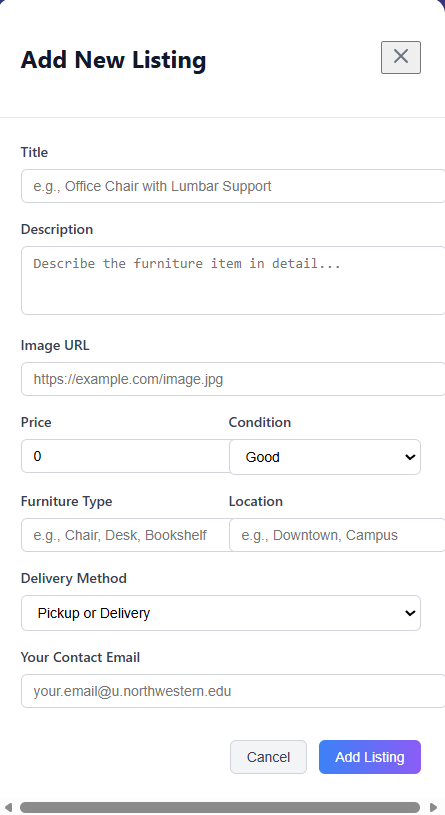
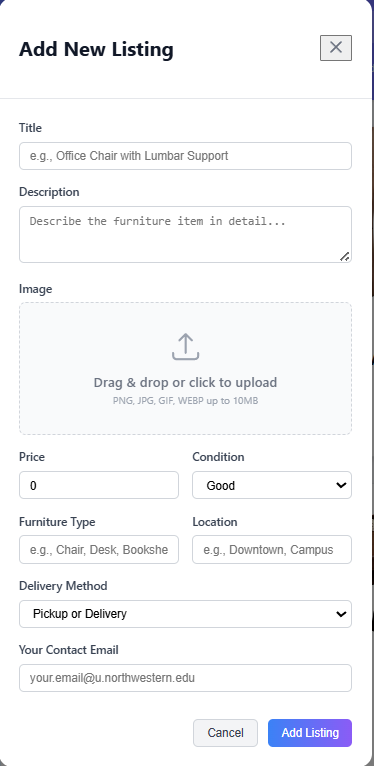
Rewrite README

diff --git a/README.md b/README.md
@@ -1,158 +1,96 @@
-# Vite + React + TypeScript Template Updated for 2026
+# DormDeals
 
-This starter combines React, TypeScript, Vite, Vitest, ESLint, and Prettier in a setup intended for Northwestern CS394 projects and similar coursework. The template now targets the 2026 major-version baseline verified in this repository on March 24, 2026.
+DormDeals is a student marketplace web app for buying and selling furniture. The current implementation focuses on the Marketplace experience, where users can browse listings, search for furniture, filter and sort results, inspect listing details, reveal seller contact, and create new posts.
 
-![394-2026-Screenshot](./resources/2026-screenshot.png)
+## Current Marketplace Features
 
-## Toolchain Baseline
+- Browse all posted furniture listings in a card grid layout.
+- Search listings by keyword (title, description, location, and furniture type).
+- Filter listings by:
+  - Furniture type
+  - Maximum price
+  - Condition
+- Sort listings by:
+  - Posting time: newest first or oldest first
+  - Price: low to high or high to low
+- Click a listing card to open a detail modal.
+- In listing details, click Message Seller to reveal hidden seller contact.
+- Click the floating + button in the bottom-right corner to open the Add Listing form.
+- Create a listing with title, description, image upload, type, condition, location, delivery method, price, and seller contact.
 
-- Node.js `22+` recommended
-- npm `10+`
-- React `19.2.x`
-- TypeScript `5.9.x`
-- ESLint `9.39.x`
-- Vite `8.0.x`
-- Vitest `4.1.x`
+## Screenshots
 
-You can find more about these in the following links: [Vite](https://vitejs.dev), [React](https://reactjs.org/), [Typescript](https://www.typescriptlang.org/), [Eslint](https://eslint.org/), [Prettier](https://prettier.io/), [Vitest](https://vitest.dev/), [React Testing Library](https://testing-library.com/docs/react-testing-library/intro/)
+### Marketplace Page
 
-## What's New in 2025/2026
+![Marketplace page](./resources/Market_place_page.png)
 
-- **React 19** with the latest React DOM and TypeScript types
-- **Vite 8** for faster builds and dev server
-- **Vitest 4** with visual UI mode and V8 coverage reporting
-- **React Testing Library** with `@testing-library/jest-dom` for readable assertions and `@testing-library/user-event` for realistic user interaction simulation
-- **TypeScript 5.9** with strict mode enabled
-- **ESLint 9** using the new flat config format
-- All dependencies updated to their latest stable versions
-- **starter Copilot instructions** in `copilot-instructions.md` for code style and project structure guidelines
+### Search Bar
 
-## Installation
+![Search bar](./resources/Search_bar.png)
 
-Clone the repo and install dependencies:
+### Filtering by Furniture Type
+
+![Filtering by furniture type](./resources/Filtering_furniture_type.png)
+
+### Posting Flow
+
+![Posting a listing](./resources/Posting.png)
+
+## Tech Stack
+
+- React + TypeScript
+- Vite
+- Firebase Realtime Database
+- Vitest + React Testing Library
+
+## Getting Started
+
+### Prerequisites
+
+- Node.js 22+
+- npm 10+
+
+### Install
 
 ```bash
 npm install
 ```
 
-If you use `nvm`, run:
+### Run the App
 
 ```bash
-nvm use
+npm run dev
 ```
 
-To create a fresh copy from GitHub:
+Then open the local URL shown in the terminal (usually `http://localhost:5173`).
 
-```bash
-npx degit toddwseattle/pretty-vitest-react-ts-template project-name
-```
+## Available Scripts
 
-## Scripts
+- `npm run dev`: start Vite development server
+- `npm run build`: run type checks and create production build
+- `npm run type-check`: run TypeScript compiler without emitting output
+- `npm run lint`: run formatting and lint checks
+- `npm test`: run Vitest tests
+- `npm run test:ui`: open Vitest UI
+- `npm run test:coverage`: run tests with coverage
 
-- `npm run dev` starts the Vite dev server.
-- `npm run build` runs TypeScript and creates a production build.
-- `npm run type-check` runs the TypeScript compiler without emitting files.
-- `npm run lint` runs Prettier and ESLint across the repo.
-- `npm test` runs Vitest without the browser UI.
-- `npm test -- --run` runs the Vitest suite once without watch mode.
-- `npm run test:ui` starts the Vitest UI.
-  - The UI server is pinned to `127.0.0.1:51204`.
+## Data and Backend Notes
 
-Install packages: `npm install`
+- Listings are loaded from Firebase Realtime Database.
+- New listings are created and stored in Firebase under `listings`.
+- If loading from Firebase fails, the app falls back to local mock listings so the marketplace UI still works during development.
 
-Start the dev server: `npm run dev`
+## Project Status
 
-## Testing
+Implemented:
 
-This template uses [Vitest](https://vitest.dev/) with [React Testing Library](https://testing-library.com/docs/react-testing-library/intro/) for testing React components.
+- Marketplace browsing page
+- Search, filtering, and sorting controls
+- Listing details modal with reveal-on-click seller contact
+- Add listing flow from the floating + button
 
-**Note**: npm audit currently reports GHSA-rf6f-7fwh-wjgh via flatted; awaiting upstream fix in @vitest/ui / flat-cache. This is a dev only dependency do notinclud npm audit of dev dependencies in your ci workflow until this is resolved.
+Planned next steps (based on app vision):
 
-### Running Tests
-
-```bash
-# Run tests in watch mode
-npm test
-
-# Run tests with the visual UI
-npm run test:ui
-
-# Run tests with coverage report
-npm run test:coverage
-```
-
-### Writing Tests with React Testing Library
-
-Tests live alongside your source files (e.g., `src/app.test.tsx` tests `src/App.tsx`). Here's a quick guide:
-
-**Rendering a component:**
-
-```tsx
-import { render, screen } from '@testing-library/react';
-import App from './App';
-
-test('renders a heading', () => {
-  render(<App />);
-  expect(screen.getByText('Hello World')).toBeInTheDocument();
-});
-```
-
-**Simulating user interactions with `userEvent`:**
-
-```tsx
-import { render, screen } from '@testing-library/react';
-import userEvent from '@testing-library/user-event';
-
-test('button click increments counter', async () => {
-  const user = userEvent.setup();
-  render(<Counter />);
-  await user.click(screen.getByRole('button'));
-  expect(screen.getByText('count is: 1')).toBeInTheDocument();
-});
-```
-
-**Common queries (in order of priority):**
-
-1. `getByRole` - query by ARIA role (preferred for accessibility)
-2. `getByLabelText` - query by form label
-3. `getByPlaceholderText` - query by input placeholder
-4. `getByText` - query by visible text content
-5. `getByAltText` - query by image alt text
-
-### Testing Best Practices
-
-- **Query by role first.** Use `getByRole` when possible. It encourages accessible markup and tests your component the way users interact with it.
-- **Use `userEvent` over `fireEvent`.** `userEvent` simulates real browser behavior (focus, hover, keyboard events) while `fireEvent` dispatches a single DOM event. This catches more bugs.
-- **Avoid testing implementation details.** Don't test state variables or internal methods. Test what the user sees and does.
-- **Write descriptive test names.** A test name should explain what the component does, not how it does it. E.g., "shows error message when form is submitted empty" rather than "sets error state to true."
-- **One assertion per behavior.** Each test should verify one behavior. Multiple related assertions in a test are fine, but avoid testing unrelated behaviors together.
-
-### Test Setup
-
-The test environment is configured in `vite.config.ts`:
-
-- **Environment:** jsdom (simulates browser DOM)
-- **Globals:** enabled (no need to import `describe`, `test`, `expect` manually)
-- **Setup file:** `src/test/setup.ts` loads `@testing-library/jest-dom` matchers like `toBeInTheDocument()`
-- **Coverage:** V8 provider with 70% thresholds for statements, branches, functions, and lines
-
-## VS Code Setup
-
-For the smoothest editing experience:
-
-1. Install the ESLint extension.
-2. Install the Prettier extension.
-3. Enable `formatOnSave`.
-4. Open a `.tsx` file and confirm both ESLint and Prettier are active in the editor.
-
-## Copilot Instructions
-
-There is a basic set of copilot instructions in `copilot-instructions.md` that you can refer to for code style and project structure guidelines. Feel free to modify/change/expand these instructions as needed for your project. The instructions link with the husky hooks to make sure code is linted and formatted consistently.
-
-## Pre-commit Hook
-
-The repo includes Husky setup and keeps the historical `pre-commit` lint flow in `package.json`. Running `npm run lint` before committing is still the safest way to ensure formatting and lint fixes are already applied.
-
-## Acknowledgments
-
-This template builds on earlier starter work from [theSwordBreaker](https://github.com/TheSwordBreaker/vite-reactts-eslint-prettier) and the React/Vitest teaching materials used in Northwestern CS394.
+- Authentication restricted to `@u.northwestern.edu` accounts
+- User-level ownership and listing management
+- Messaging/communication workflow enhancements
